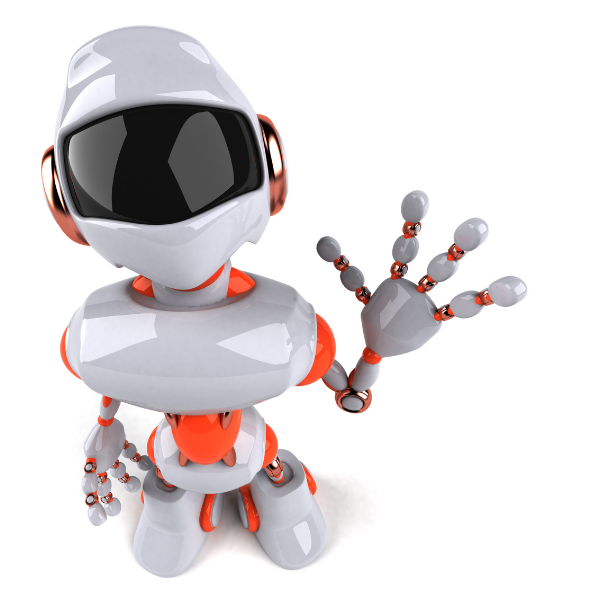
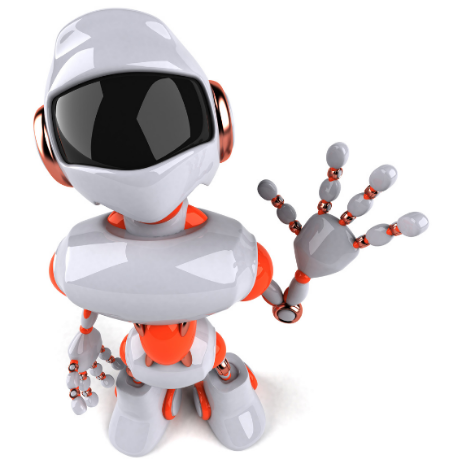
-m change forkify link to catering

Changed region(s): [[0.0622, 0.0, 0.9644, 0.9726], [0.2489, 0.9432, 0.3422, 0.9726], [0.1867, 0.56, 0.2489, 0.5895]]

diff --git a/index.html b/index.html
@@ -39,17 +39,18 @@
 
   <div class="jumbotron jumbotron-fluid">
     <div class="container">
-      <img class="float-left" src="./images/robot-flower-new2.png" alt="">
-      <h1 class="display-4 pt-4">Hi. I'm Judi.</h1>
-      <p class="h2 pt-4">Web Developer</p>
+      <img class="float-left img-main" src="./images/robot-flower-new3.png" alt="robot image">
+     
+      <h1 class="display-4 pl-2 pt-4">Hi. I'm Judi.</h1>
+      <p class="h2 pl-2 pt-4">Web Developer</p>
     </div>
   </div>
 
   <div class="row projects-section">
 
     <div class="about">
-      <p class="h3 pt-4">Dependable. Friendly. Creative.</p>
-      <p class="link lead pt-2 mt-4">Software Development</p>
+      <p class="h3 pl-2 pt-4">Creative. Resourceful. Dependable.</p>
+      <p class="link lead pl-2 pt-2 mt-4">Software Development</p>
 
     </div>
 
@@ -62,11 +63,11 @@
       <div class="col-sm-4 mt-4">
         <div class="card m-1 text-center">
           <div class="card-body pb-3">
-            <h5 class="card-title pb-2">Sample Recipe App</h5>
-            <img src="./images/forkify.png" alt="Forkify App Image" class="img-fluid">
-            <p class="card-text p-2">APIs, CSS and Sass </p>
+            <h5 class="card-title pb-2">Sample Catering Company</h5>
+            <img src="./images/catering1.png" alt="App Image" class="img-fluid sample">
+            <p class="card-text p-2">Bootstrap & CSS</p>
 
-            <a href="https://judiphillips.github.io/forkify/" target="_blank" class="btn btn-secondary card-btn mb-2">Visit</a>
+            <a href="https://judiphillips.github.io/catering/" target="_blank" class="btn btn-secondary card-btn mb-2">Visit</a>
 
           </div>
         </div>
@@ -76,7 +77,7 @@
           <div class="card-body pb-3">
             <h5 class="card-title pb-2">Hotel Booking App</h5>
             <div class="img-fluid">
-              <img src="./images/Trillo.png" alt="Trillo App Image" class="img-fluid"></div>
+              <img src="./images/Trillo.png" alt="Trillo App Image" class="img-fluid sample"></div>
             <p class="card-text p-2">CSS Grid</p>
             <a href="https://judiphillips.github.io/trillo/" target="_blank" class="btn btn-secondary card-btn mb-2">Visit</a>
 
@@ -87,7 +88,7 @@
         <div class="card m-1 text-center">
           <div class="card-body pb-3">
             <h5 class="card-title pb-2">Nature Tours App</h5>
-            <img src="./images/natours.png" alt="Natours App Image" class="img-fluid">
+            <img src="./images/natours.png" alt="Natours App Image" class="img-fluid sample">
             <p class="card-text p-2">Reponsive CSS and Sass</p>
             <a href="https://judiphillips.github.io/natours" target="_blank" class="btn btn-secondary card-btn mb-2">Visit</a>
 
@@ -207,6 +208,8 @@
 
   <!-- Optional JavaScript -->
   <!-- jQuery first, then Popper.js, then Bootstrap JS -->
+  
+  
   <script src="https://code.jquery.com/jquery-3.5.1.slim.min.js"
     integrity="sha384-DfXdz2htPH0lsSSs5nCTpuj/zy4C+OGpamoFVy38MVBnE+IbbVYUew+OrCXaRkfj" crossorigin="anonymous">
   </script>
@@ -221,7 +224,10 @@
     let sendForm = function() {
     document.getElementById('emailForm').submit();
     }
-  </script>
+    
+    
+      
+  </script>   
 </body>
 
 </html>

diff --git a/css/style.css b/css/style.css
@@ -14,6 +14,9 @@ h3 {
   text-align: center;
 }
 
+
+
+
 .card-body {
   background-color: #ffffff;
   border-radius: 5px;
@@ -28,6 +31,10 @@ h3 {
   transform: scale(1.1);
   transition: .2s;
 
+}
+
+.sample {
+  width: 80%;
 }
 
 .card-btn {
@@ -52,6 +59,13 @@ h3 {
   background-color: #e9ecef;
   /* background-color: #b6b8b9; */
 }
+
+.img-main {
+  padding-right: 4.5rem;
+  padding-bottom: 2.5rem;
+  transform: scale(1.1);
+}
+
 
 .img-tablet {
   min-width: 100px;
@@ -108,3 +122,28 @@ h3 {
 .link:visited {
   color:
 }
+
+.rating:active, 
+.rating:visited {
+  color: orangered;
+}
+
+.rating::before, .rating::after {
+  
+}
+
+
+/* Extra small devices (phones, 600px and down)
+@media only screen and (max-width: 600px) {...}
+
+/* Small devices (portrait tablets and large phones, 600px and up) */
+/* @media only screen and (min-width: 600px) {...}
+
+/* Medium devices (landscape tablets, 768px and up) */
+
+
+/* Large devices (laptops/desktops, 1000px and under) */
+
+
+/* Extra large devices (large laptops and desktops, 1200px and up) */
+
